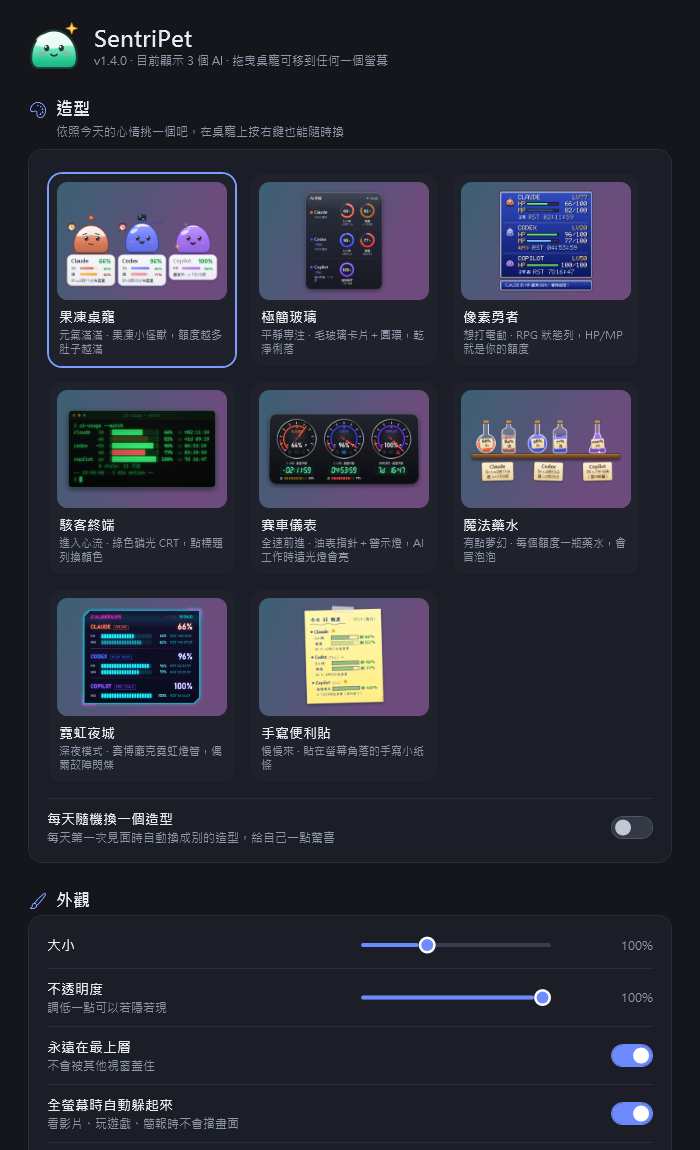
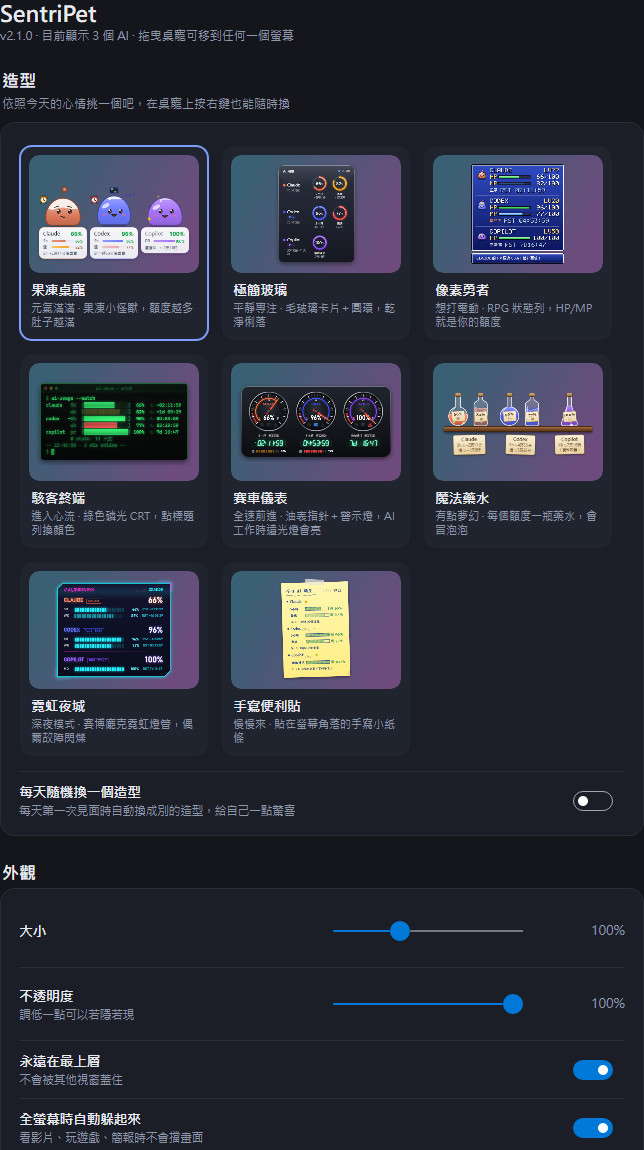
Menu: one looks menu instead of the duplicate theme and mood menus; README screenshots from 2.x
Each theme shows its mood in grey; random and daily-random live in the same submenu; the usage summary at the top has one line per AI (it was cut off). The menu can be built off-screen: --snapshot renders it with the submenu, the self-test checks there is one looks menu and no duplicate. README images re-rendered from the Avalonia app; release notes for 2.1.0.

diff --git a/xplat/SentriPet.Desktop/DesktopController.cs b/xplat/SentriPet.Desktop/DesktopController.cs
@@ -277,21 +277,67 @@ namespace SentriPet
 
         public void ShowMenu(Control target)
         {
-            var menu = new ContextMenu();
+            var menu = new ContextMenu { ItemsSource = BuildMenuItems() };
+            menu.Opened += (s, e) => menuOpen = true;
+            menu.Closed += (s, e) => menuOpen = false;
+            menu.Open(target);
+        }
+
+        /// <summary>A controller for the off-screen snapshots and the self-test (no window, tray or service).</summary>
+        internal static DesktopController ForSnapshot(AppSettings settings, List<ProviderView> sample)
+        {
+            var c = new DesktopController(null, null);
+            c.Settings = settings;
+            c.views = sample;
+            return c;
+        }
+
+        /// <summary>A theme in the menu: its name, and its mood in grey on the right.</summary>
+        static Control ThemeHeader(ThemeInfo t)
+        {
+            var g = new Grid { MinWidth = 190 };
+            g.ColumnDefinitions.Add(new ColumnDefinition { Width = new GridLength(1, GridUnitType.Star) });
+            g.ColumnDefinitions.Add(new ColumnDefinition { Width = GridLength.Auto });
+            g.Children.Add(new TextBlock { Text = t.Name });
+            var mood = new TextBlock { Text = t.Mood, Opacity = 0.55, Margin = new Thickness(24, 0, 0, 0) };
+            Grid.SetColumn(mood, 1);
+            g.Children.Add(mood);
+            return g;
+        }
+
+        /// <summary>The widget's right-click menu.</summary>
+        internal List<object> BuildMenuItems()
+        {
             var items = new List<object>();
-            string sum = views.Count == 0 ? L.T("正在偵測 AI…") : string.Join("  ·  ", views.Select(v => v.Summary));
-            items.Add(new MenuItem { Header = sum, IsEnabled = false });
+            // what each AI has left, one line each (one long line got cut off)
+            var summary = new StackPanel();
+            if (views.Count == 0) summary.Children.Add(new TextBlock { Text = L.T("正在偵測 AI…") });
+            foreach (var v in views) summary.Children.Add(new TextBlock { Text = v.Summary });
+            items.Add(new MenuItem { Header = summary, IsEnabled = false });
             items.Add(new Separator());
+            // one menu for the looks: each theme with its mood (the WPF version had a second, "mood" menu with the same themes)
             var themes = new MenuItem { Header = L.T("換造型") };
             var themeItems = new List<object>();
             foreach (var t in ThemeCatalog.All)
             {
                 var info = t;
-                var mi = Toggle(t.Name, Settings.Theme == t.Id, () => ChangeTheme(info.Id));
+                var mi = Toggle(info.Name, Settings.Theme == t.Id, () =>
+                {
+                    ChangeTheme(info.Id);
+                    window.Say(null, L.F("收到！今天是「{0}」模式 ✦", info.Mood));
+                });
+                mi.Header = ThemeHeader(info);
                 mi.ToggleType = MenuItemToggleType.Radio;
                 themeItems.Add(mi);
             }
             themeItems.Add(new Separator());
+            themeItems.Add(Item(L.T("交給命運吧（隨機）"), () =>
+            {
+                var choices = ThemeCatalog.All.Where(x => x.Id != Settings.Theme).ToList();
+                var pick = choices[rng.Next(choices.Count)];
+                ChangeTheme(pick.Id);
+                window.Say(null, L.F("命運選擇了「{0}」！", pick.Name));
+            }));
             themeItems.Add(Toggle(L.T("每天隨機換一個"), Settings.DailyRandomTheme, () =>
             {
                 Settings.DailyRandomTheme = !Settings.DailyRandomTheme;
@@ -301,24 +347,6 @@ namespace SentriPet
             }));
             themes.ItemsSource = themeItems;
             items.Add(themes);
-
-            var mood = new MenuItem { Header = L.T("今天心情如何？") };
-            var moodItems = new List<object>();
-            foreach (var t in ThemeCatalog.All)
-            {
-                var info = t;
-                moodItems.Add(Item(t.Mood, () => { ChangeTheme(info.Id); window.Say(null, L.F("收到！今天是「{0}」模式 ✦", info.Mood)); }));
-            }
-            moodItems.Add(new Separator());
-            moodItems.Add(Item(L.T("交給命運吧（隨機）"), () =>
-            {
-                var choices = ThemeCatalog.All.Where(x => x.Id != Settings.Theme).ToList();
-                var pick = choices[rng.Next(choices.Count)];
-                ChangeTheme(pick.Id);
-                window.Say(null, L.F("命運選擇了「{0}」！", pick.Name));
-            }));
-            mood.ItemsSource = moodItems;
-            items.Add(mood);
             items.Add(Item(L.T("立即更新"), () => { Service.RefreshNow(null); if (views.Count > 0) window.Say(views[0].Id, L.T("更新中…")); }));
 
             var size = new MenuItem { Header = L.T("大小") };
@@ -341,7 +369,7 @@ namespace SentriPet
             opacity.ItemsSource = levels;
             items.Add(opacity);
 
-            var screens = window.Screens.All.OrderBy(s => s.Bounds.X).ThenBy(s => s.Bounds.Y).ToList();
+            var screens = window != null ? window.Screens.All.OrderBy(s => s.Bounds.X).ThenBy(s => s.Bounds.Y).ToList() : new List<Screen>();
             if (screens.Count > 1)
             {
                 var move = new MenuItem { Header = L.T("移到螢幕") };
@@ -378,10 +406,7 @@ namespace SentriPet
             items.Add(Toggle(L.T("開機自動啟動"), Settings.AutoStart, () => { Settings.AutoStart = !Settings.AutoStart; Integration.SetAutostart(Settings.AutoStart); Settings.Save(); }));
             items.Add(Item(L.T("先藏起來（點系統匣叫回）"), ToggleWidget));
             items.Add(Item(L.T("結束"), Quit));
-            menu.ItemsSource = items;
-            menu.Opened += (s, e) => menuOpen = true;
-            menu.Closed += (s, e) => menuOpen = false;
-            menu.Open(target);
+            return items;
         }
 
         static MenuItem Item(string header, Action click)
@@ -390,7 +415,7 @@ namespace SentriPet
             mi.Click += (s, e) =>
             {
                 try { click(); }
-                catch (Exception ex) { Log.Error("menu " + header, ex); }
+                catch (Exception ex) { Log.Error("menu " + header, ex); }   // (the text given here, also when the header is replaced by a control)
             };
             return mi;
         }

diff --git a/xplat/SentriPet.Desktop/Snapshots.cs b/xplat/SentriPet.Desktop/Snapshots.cs
@@ -136,6 +136,22 @@ namespace SentriPet
                     File.WriteAllText(Path.Combine(outDir, "settings_error.txt"), ex.ToString());
                 }
             }
+            // the right-click menu and its looks submenu
+            if (only == null)
+            {
+                try
+                {
+                    var ctl = DesktopController.ForSnapshot(new AppSettings { Theme = "pet" }, MockData.A());
+                    RenderMenu(ctl.BuildMenuItems(), Path.Combine(outDir, "menu.png"), scale);
+                    var looks = ctl.BuildMenuItems().OfType<MenuItem>().First(m => Equals(m.Header, L.T("換造型")));
+                    RenderMenu(((IEnumerable<object>)looks.ItemsSource).ToList(), Path.Combine(outDir, "menu_themes.png"), scale);
+                }
+                catch (Exception ex)
+                {
+                    failures++;
+                    File.WriteAllText(Path.Combine(outDir, "menu_error.txt"), ex.ToString());
+                }
+            }
             // the floating speech bubble (themes without speech of their own)
             if (only == null)
             {
@@ -156,6 +172,23 @@ namespace SentriPet
                 }
             }
             return failures;
+        }
+
+        /// <summary>A context menu drawn as it looks when open (inside a headless window, so it gets its theme).</summary>
+        static void RenderMenu(List<object> items, string file, double scale)
+        {
+            var menu = new ContextMenu { ItemsSource = items };
+            var win = new Window { Content = menu, SizeToContent = SizeToContent.WidthAndHeight, Background = Brushes.Transparent, FontFamily = G.Ui };
+            RenderOptions.SetTextRenderingMode(win, TextRenderingMode.Antialias);
+            win.Show();
+            for (int i = 0; i < 3; i++) Dispatcher.UIThread.RunJobs();
+            var size = menu.Bounds.Size;
+            using (var rtb = new RenderTargetBitmap(new PixelSize((int)Math.Ceiling(size.Width * scale), (int)Math.Ceiling(size.Height * scale)), new Vector(96 * scale, 96 * scale)))
+            {
+                rtb.Render(menu);
+                rtb.Save(file);
+            }
+            win.Close();
         }
 
         static string Arg(string[] args, string name)

diff --git a/xplat/SentriPet.Desktop/DesktopTests.cs b/xplat/SentriPet.Desktop/DesktopTests.cs
@@ -314,6 +314,22 @@ namespace SentriPet
                 t.Check("浮動泡泡量得出大小、不超過最大寬度", size.Width > 60 && size.Width < 300 && size.Height > 30, size.ToString());
                 t.Check("泡泡在秒數到了之前不會消失", bubble.Until > DateTime.UtcNow.AddSeconds(3));
             });
+            Progress = "menu";
+            t.Run("menu", () =>
+            {
+                var ctl = DesktopController.ForSnapshot(new AppSettings { Theme = "glass" }, MockData.A());
+                var items = ctl.BuildMenuItems();
+                var subs = items.OfType<MenuItem>().Where(m => m.ItemsSource != null).ToList();
+                t.Equal("右鍵選單：只有一個換造型的子選單", 1, subs.Count(m => Equals(m.Header, L.T("換造型"))));
+                t.Check("右鍵選單：沒有重複的「今天心情如何？」", !items.OfType<MenuItem>().Any(m => Equals(m.Header, "今天心情如何？")));
+                var looks = ((IEnumerable<object>)subs.First(m => Equals(m.Header, L.T("換造型"))).ItemsSource).ToList();
+                var radios = looks.OfType<MenuItem>().Where(m => m.ToggleType == MenuItemToggleType.Radio).ToList();
+                t.Equal("換造型：8 種造型", 8, radios.Count);
+                t.Check("換造型：每一項都標出心情", radios.All(m => m.Header is Grid && ((Grid)m.Header).Children.OfType<TextBlock>().Count() == 2));
+                t.Equal("換造型：目前的造型打勾", 1, radios.Count(m => m.IsChecked));
+                t.Check("換造型：隨機與每天隨機換都在同一個選單", looks.OfType<MenuItem>().Any(m => Equals(m.Header, L.T("交給命運吧（隨機）"))) &&
+                                                               looks.OfType<MenuItem>().Any(m => Equals(m.Header, L.T("每天隨機換一個"))));
+            });
             Progress = "settings page";
             t.Run("settings", () =>
             {

diff --git a/docs/releases/v2.1.0.md b/docs/releases/v2.1.0.md
@@ -1,0 +1,26 @@
+SentriPet 是放在桌面上的 AI 用量監控桌寵：自動偵測 Claude、Codex、Copilot 等 AI 工具，即時顯示還剩多少額度、多久後重置。
+
+## 下載
+
+| 系統 | 檔案 | 安裝 |
+|---|---|---|
+| Windows 10／11 | `SentriPet-2.1.0-win-x64.zip` | 解壓縮後執行 `SentriPet.exe` |
+| macOS Apple 晶片（M1～M4） | `SentriPet-2.1.0-osx-arm64.zip` | 解壓縮，把 `SentriPet.app` 拖到「應用程式」 |
+| macOS Intel | `SentriPet-2.1.0-osx-x64.zip` | 同上 |
+| Linux x64 | `SentriPet-2.1.0-linux-x64.tar.gz` | 解壓縮後執行 `./install.sh` |
+
+每個檔案都已包含執行需要的一切。從 2.0 升級：結束舊版後用新檔案覆蓋即可，設定會保留。
+macOS 第一次開啟請在 `SentriPet.app` 上按右鍵 →「打開」（沒有 Apple 開發者簽章）。完整說明見 [README](https://github.com/daven55663/SentriPet-AI#readme)。
+
+## 這一版的變化
+
+- **連接 Claude Code 狀態列（官方用量）**（#9）：在 設定 → AI 服務 開啟後，Claude Code 每次回覆都會把官方的用量與重置時間交給 SentriPet。
+  - **Linux 也讀得到 Claude 的用量了**（Linux 沒有 Claude 桌面版，靠這個方式）。
+  - Windows／macOS 上，Claude 的重置時間改用官方的，不再是推算值。
+  - 會修改 `~/.claude/settings.json`（修改前先備份）；你原本的狀態列照常顯示，關掉選項就原封不動還原。
+  - 需要 Claude Pro 或 Max 訂閱；數字在使用 Claude Code 時更新。
+- **右鍵選單整理**：「換造型」與「今天心情如何？」兩個重複的選單合併成一個「換造型」，每種造型旁邊標著心情，
+  「交給命運吧（隨機）」與「每天隨機換一個」也放在一起；選單最上面的用量摘要改成每個 AI 一行，不會再被截斷。
+- README 的截圖全部改成 2.x 版本的畫面。
+
+本程式只在本機讀取用量資料，不讀取、也不傳送任何登入憑證。

diff --git a/docs/DEVLOG.md b/docs/DEVLOG.md
@@ -190,5 +190,9 @@ xplat/                新的跨平台版（.NET 10）
   - Claude 資料來源：狀態列比桌面版紀錄新時用官方的用量；重置時間一律用官方的（不再標 ≈）；沒有桌面版時（Linux）只用狀態列。
   - 測試：核心 +42 項（解析、代為執行原本的狀態列、開關與還原、搬家、壞掉的設定檔不修改、資料來源的各種組合），
     桌寵自我測試 +2 項（真的把程式當狀態列指令執行）。
+- 2026-09-27：**右鍵選單整理**（使用者回報）：「換造型」和「今天心情如何？」是同樣 8 種造型的兩個選單，合併成一個「換造型」，
+  每一項右邊用灰字標出心情，「交給命運吧（隨機）」和「每天隨機換一個」也放進來；選造型時桌寵照樣說「今天是『…』模式」。
+  選單最上面的用量摘要改成每個 AI 一行（原本一行太長會被截斷）。選單改成可以離線建立：`--snapshot` 會畫出選單與子選單，
+  自我測試檢查「只有一個換造型、沒有重複的心情選單、8 種造型都標出心情、目前的打勾」。README 截圖全部換成 2.x 的畫面。
 - 還沒做、需要實機才能確認的：Mac／Linux 實體電腦上的長時間試用（拖曳、系統匣、通知、開機啟動、滑鼠穿透、macOS 的眼睛）；
   Linux 上的 Claude 用量要開啟「連接 Claude Code 狀態列」。
